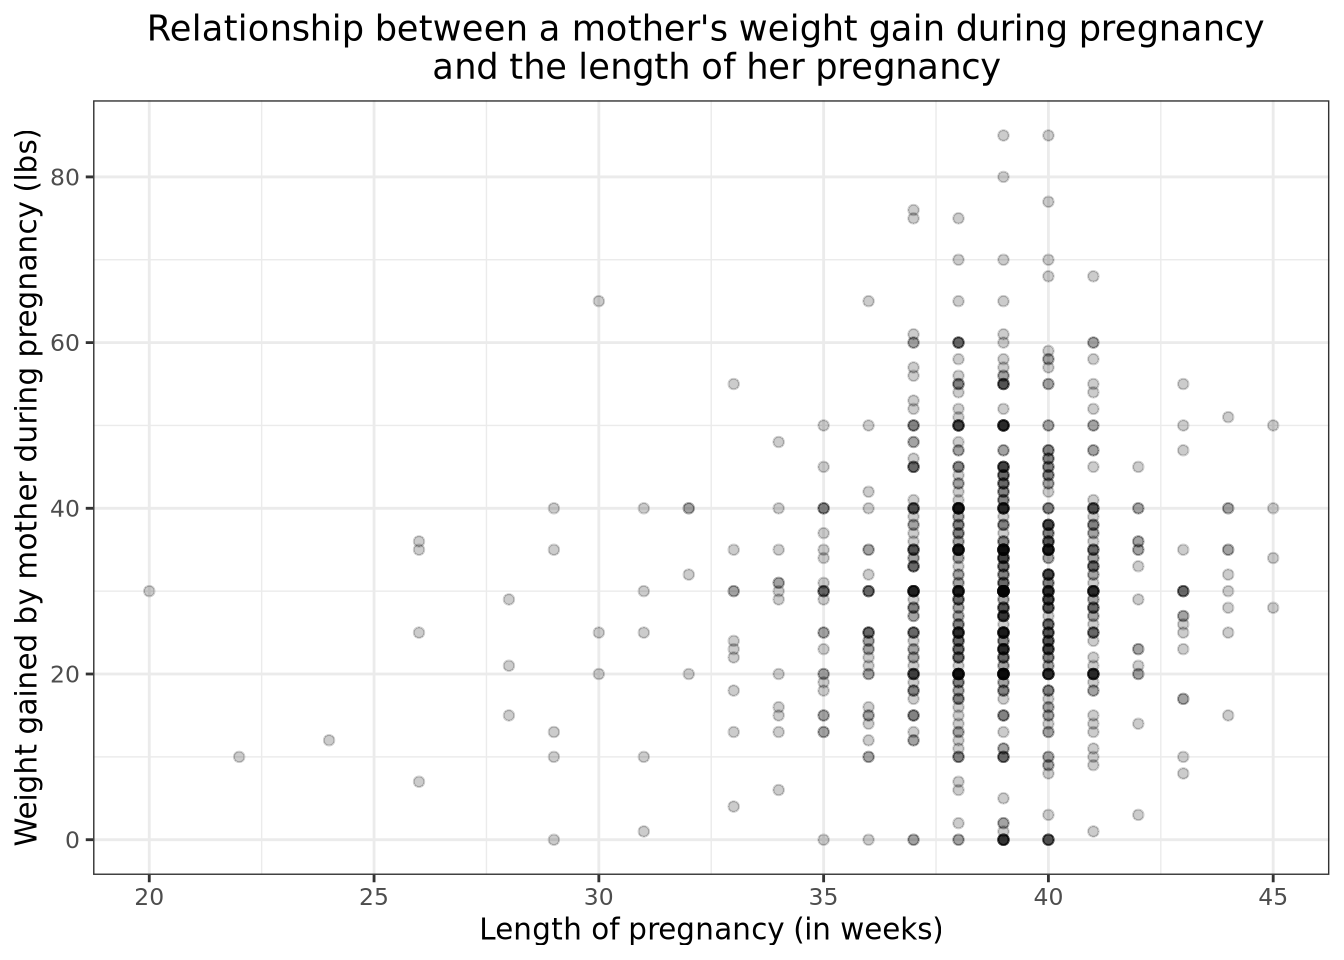
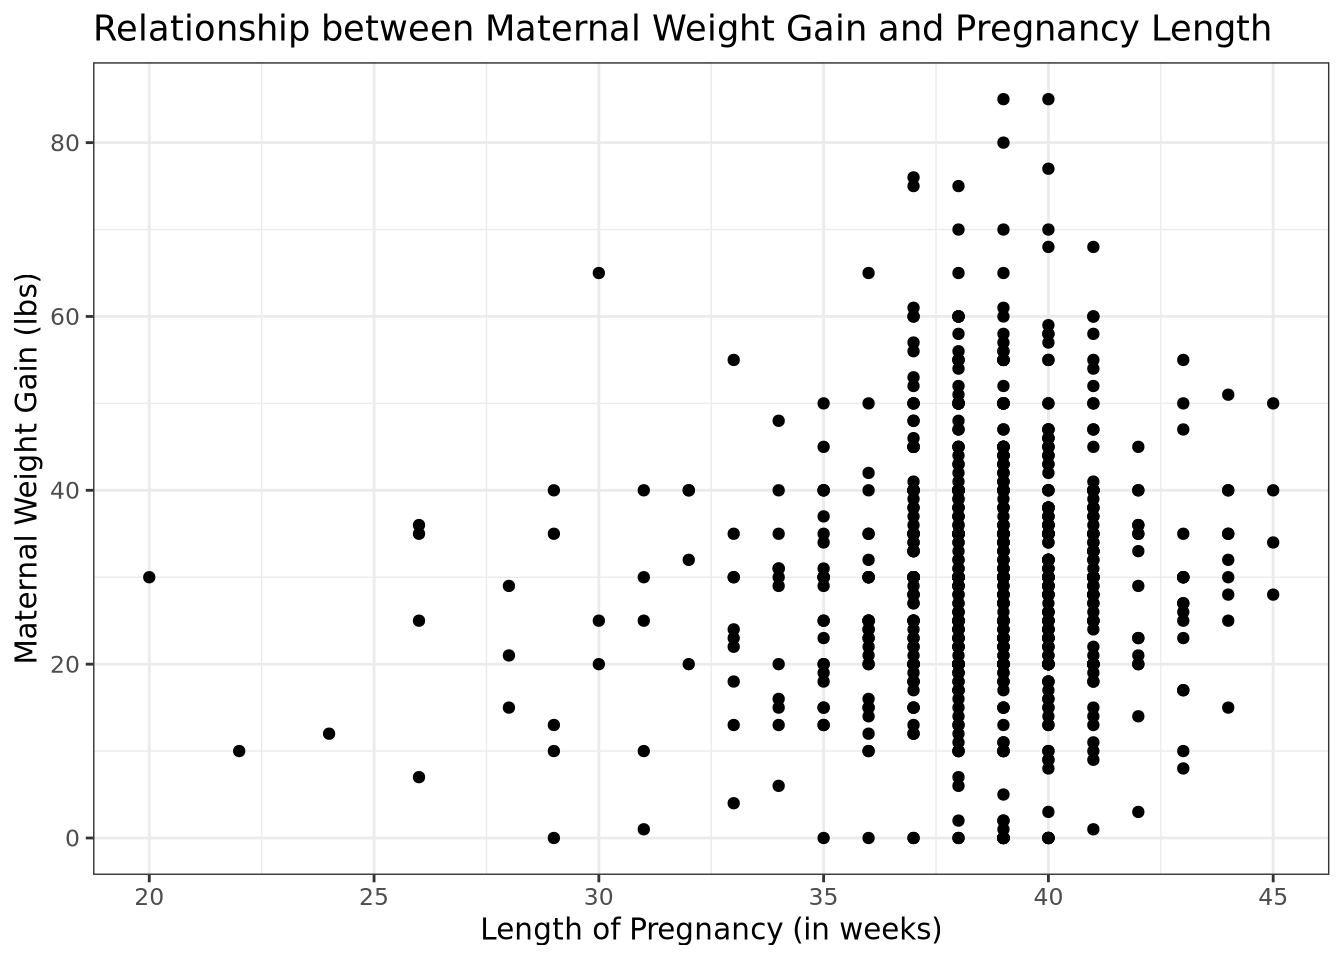
Answered Question 3 by Creating a Graph

diff --git a/PS02_source.html b/PS02_source.html
@@ -98,7 +98,7 @@ pre > code.sourceCode > span > a:first-child::before { text-decoration: underlin
     <div>
     <div class="quarto-title-meta-heading">Published</div>
     <div class="quarto-title-meta-contents">
-      <p class="date">Last modified on August 30, 2023 21:37:25 Eastern Daylight Time</p>
+      <p class="date">Last modified on August 31, 2023 09:43:20 Eastern Daylight Time</p>
     </div>
   </div>
   
@@ -428,7 +428,14 @@ Problem 3 Answers
 <div id="callout-14" class="callout-14-contents callout-collapse collapse show">
 <div class="callout-body-container callout-body">
 <div class="cell" data-layout-align="center">
-<div class="sourceCode cell-code" id="cb7"><pre class="sourceCode r code-with-copy"><code class="sourceCode r"><span id="cb7-1"><a href="#cb7-1" aria-hidden="true" tabindex="-1"></a><span class="co"># Type your code and comments inside the code chunk</span></span></code><button title="Copy to Clipboard" class="code-copy-button"><i class="bi"></i></button></pre></div>
+<div class="sourceCode cell-code" id="cb7"><pre class="sourceCode r code-with-copy"><code class="sourceCode r"><span id="cb7-1"><a href="#cb7-1" aria-hidden="true" tabindex="-1"></a><span class="fu">ggplot</span>(<span class="at">data =</span> nc, <span class="fu">aes</span>(<span class="at">x =</span> weeks, <span class="at">y =</span> gained)) <span class="sc">+</span> <span class="fu">geom_point</span>() <span class="sc">+</span> <span class="fu">labs</span>(<span class="at">x =</span> <span class="st">"Length of Pregnancy (in weeks)"</span>, <span class="at">y =</span> <span class="st">"Maternal Weight Gain (lbs)"</span>, <span class="at">title =</span> <span class="st">"Relationship between Maternal Weight Gain and Pregnancy Length"</span>)  <span class="sc">+</span> <span class="fu">theme_bw</span>()</span></code><button title="Copy to Clipboard" class="code-copy-button"><i class="bi"></i></button></pre></div>
+<div class="cell-output-display">
+<div class="quarto-figure quarto-figure-center">
+<figure class="figure">
+<p><img src="PS02_source_files/figure-html/unnamed-chunk-9-1.png" class="img-fluid figure-img" width="672"></p>
+</figure>
+</div>
+</div>
 </div>
 </div>
 </div>
